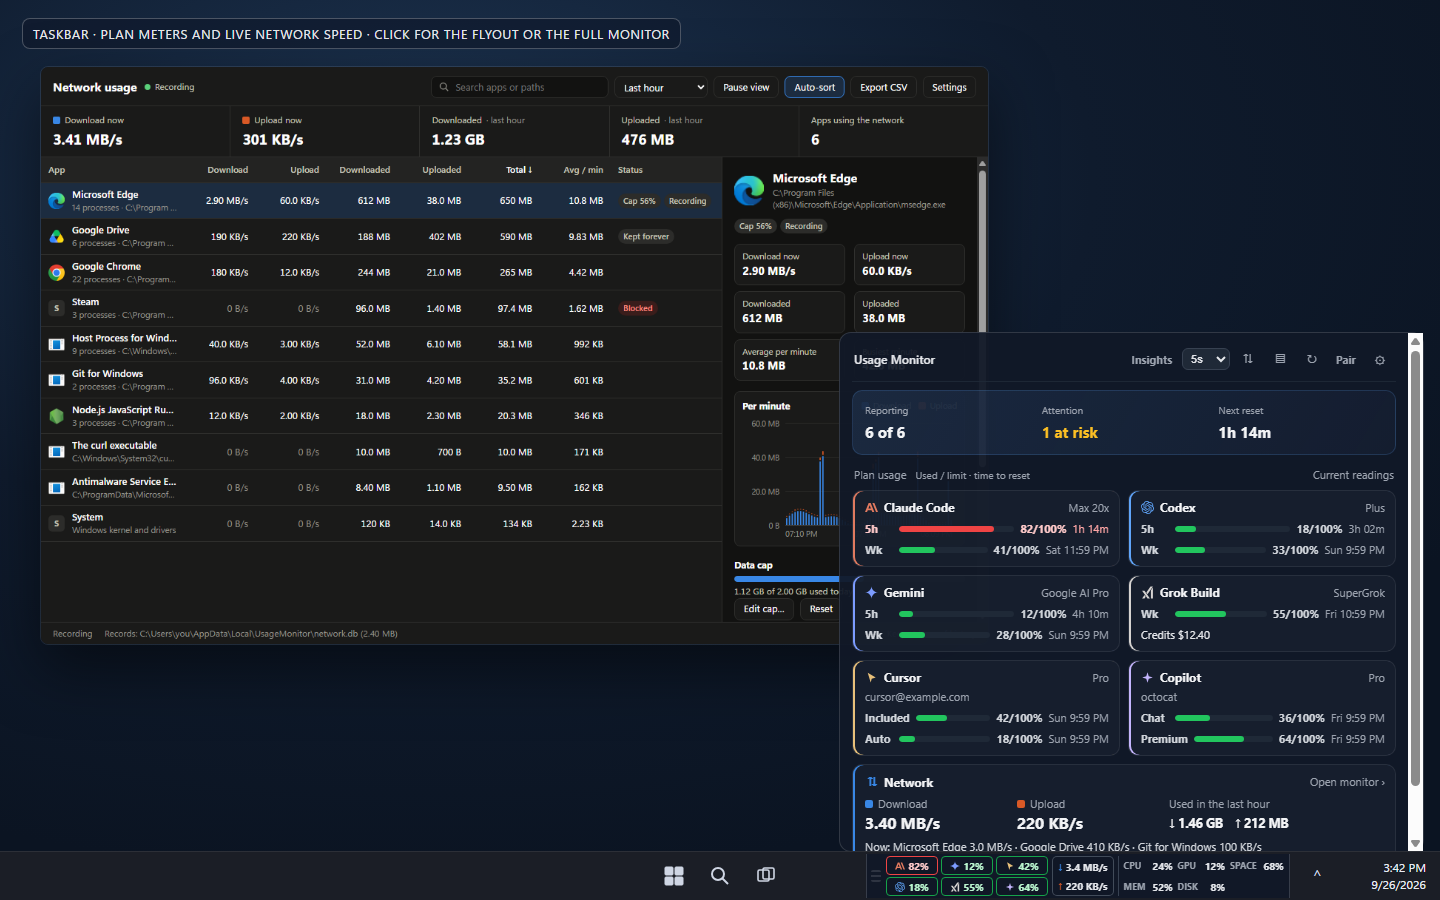
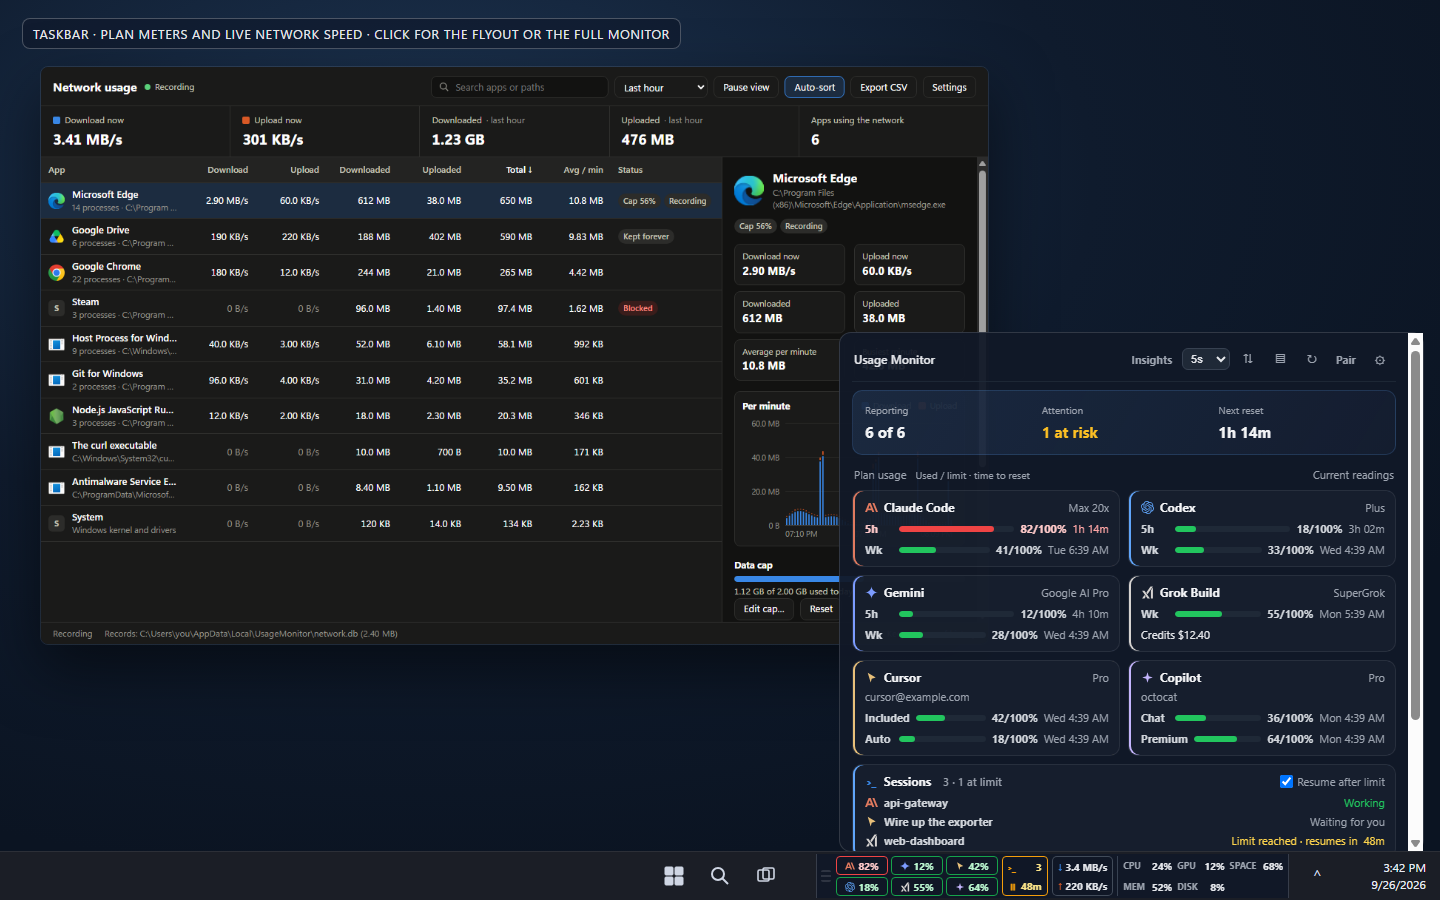
Prepare the 1.7.0 release
Bump the version, date the changelog section, note what is new in the
README, and regenerate the screenshots with the Sessions card.

diff --git a/scripts/screenshots.js b/scripts/screenshots.js
@@ -52,6 +52,13 @@ const netSummary = {
 };
 
 const updateState = { kind: "installer", status: "up-to-date", current: require("../package.json").version, build: null, auto: true, checked_at: now };
+const sessionReset = new Date(now + 47 * 60_000).toISOString();
+const sessionsView = { auto_resume: true, can_resume: true, sessions: [
+  { key: "claude:demo", tool: "claude", label: "Claude Code", name: "api-gateway", cwd: "D:\\work\\api-gateway", state: "working", resets_at: null, resume_at: null, resume: null },
+  { key: "cursor:demo", tool: "cursor", label: "Cursor Agent", name: "Wire up the exporter", cwd: "D:\\work\\exporter", state: "idle", resets_at: null, resume_at: null, resume: null },
+  { key: "grok:demo", tool: "grok", label: "Grok Build", name: "web-dashboard", cwd: "D:\\work\\web-dashboard", state: "limited",
+    resets_at: sessionReset, resume_at: new Date(Date.parse(sessionReset) + 60_000).toISOString(), resume: "scheduled" },
+] };
 
 function findDefender() {
   const base = "C:\\ProgramData\\Microsoft\\Windows Defender\\Platform";
@@ -242,6 +249,7 @@ async function main() {
   ipcMain.handle("usage://get-prefs", () => ({ alert_threshold: 80, chips_show: {}, dark: true }));
   ipcMain.handle("usage://get-pairing", () => null);
   ipcMain.handle("usage://get-update", () => updateState);
+  ipcMain.handle("usage://get-sessions", () => sessionsView);
   ipcMain.handle("net:state", () => netState);
   ipcMain.handle("net:settings", () => netState);
   ipcMain.handle("net:series", () => edgeSeries);
@@ -261,6 +269,7 @@ async function main() {
         crop: page === "flyout" ? "#root" : "#bar", setup: async (w) => {
           w.webContents.send("usage://snapshot", demo); w.webContents.send("usage://net", netSummary);
           w.webContents.send("usage://update", updateState);
+          w.webContents.send("usage://sessions", sessionsView);
           if (page === "chips") w.webContents.send("usage://chips-fill", 44);
         } });
       fs.writeFileSync(path.join(OUT, `${page}-${regime}.png`), shot.toPNG());
@@ -279,6 +288,7 @@ async function main() {
         w.webContents.send("usage://snapshot", snapshot);
         w.webContents.send("usage://net", netSummary);
         w.webContents.send("usage://update", updateState);
+        w.webContents.send("usage://sessions", sessionsView);
       },
     })
   );
@@ -295,6 +305,7 @@ async function main() {
         w.webContents.send("usage://system", { cpu: 24, mem: 52, gpuPresent: true, gpu: 12, disk: 8, space: 68 });
         w.webContents.send("usage://snapshot", snapshot);
         w.webContents.send("usage://net", netSummary);
+        w.webContents.send("usage://sessions", sessionsView);
       },
     })
   );

diff --git a/README.md b/README.md
@@ -41,6 +41,8 @@ Sign in once to the tools you want metered (`claude`, `codex login`, `agy`, `gro
 
 ## What you see
 
+**New in 1.7.0:** the flyout's **Sessions** card and a sessions chip list coding sessions running in a terminal: Claude Code and Codex, and on Windows Grok Build, Antigravity, Gemini CLI, Cursor Agent and Copilot CLI. With **Resume after limit** on (Windows), a session stopped by a usage limit gets `continue` typed into its own terminal a minute after the limit resets. In File Explorer, right-click empty folder space for **Open in terminal (godmode)**.
+
 **New in 1.6.0:** Settings → **Use combined X Subscription** replaces the separate Grok and Cursor meters with one shared weekly pool. It defaults to off, including after an upgrade. Additional Usage credits remain separate. Paired/linked phone readings follow the computer's selection; phone sign-ins follow the phone toggle. Unverified shared usage shows unavailable with a dashboard link, and cached readings stay marked stale.
 
 The meter requires an explicit total, a weekly period/reset, and reported Cursor coverage in the billing response. It never adds product percentages or converts a monthly allowance to a weekly quota. Provider responses that do not expose that evidence remain unavailable. See the [official shared-pool description](https://docs.x.ai/x-subscription/usage-limits) and [account migration FAQ](https://docs.x.ai/x-subscription/faq).

diff --git a/CHANGELOG.md b/CHANGELOG.md
@@ -1,6 +1,6 @@
 # Changelog
 
-## Unreleased
+## 1.7.0 — 2026-10-16
 
 - **Open in terminal (godmode)** on the File Explorer folder-background menu (right-click empty space in a folder; on Windows 11 it is on the main right-click menu). It starts Claude Code, Codex, Grok Build, Gemini or Cursor in that folder with that CLI's own skip-permissions flag (`claude --dangerously-skip-permissions`, `codex --dangerously-bypass-approvals-and-sandbox`, `grok --always-approve`, `agy --dangerously-skip-permissions`, `cursor-agent --force`). Usage Monitor registers the menu for the current user when it starts. The flyout, Settings and the tray menu do not have an auto-accept switch and do not launch these terminals.
 - **Sessions** card on the flyout and a sessions chip: Claude Code, Codex, Grok Build, Antigravity, Gemini CLI, Cursor Agent and Copilot CLI sessions running in a terminal, shown as working, waiting for you, or stopped by a usage limit with the time to its reset. Hide the chip in **Settings → Chips**.
